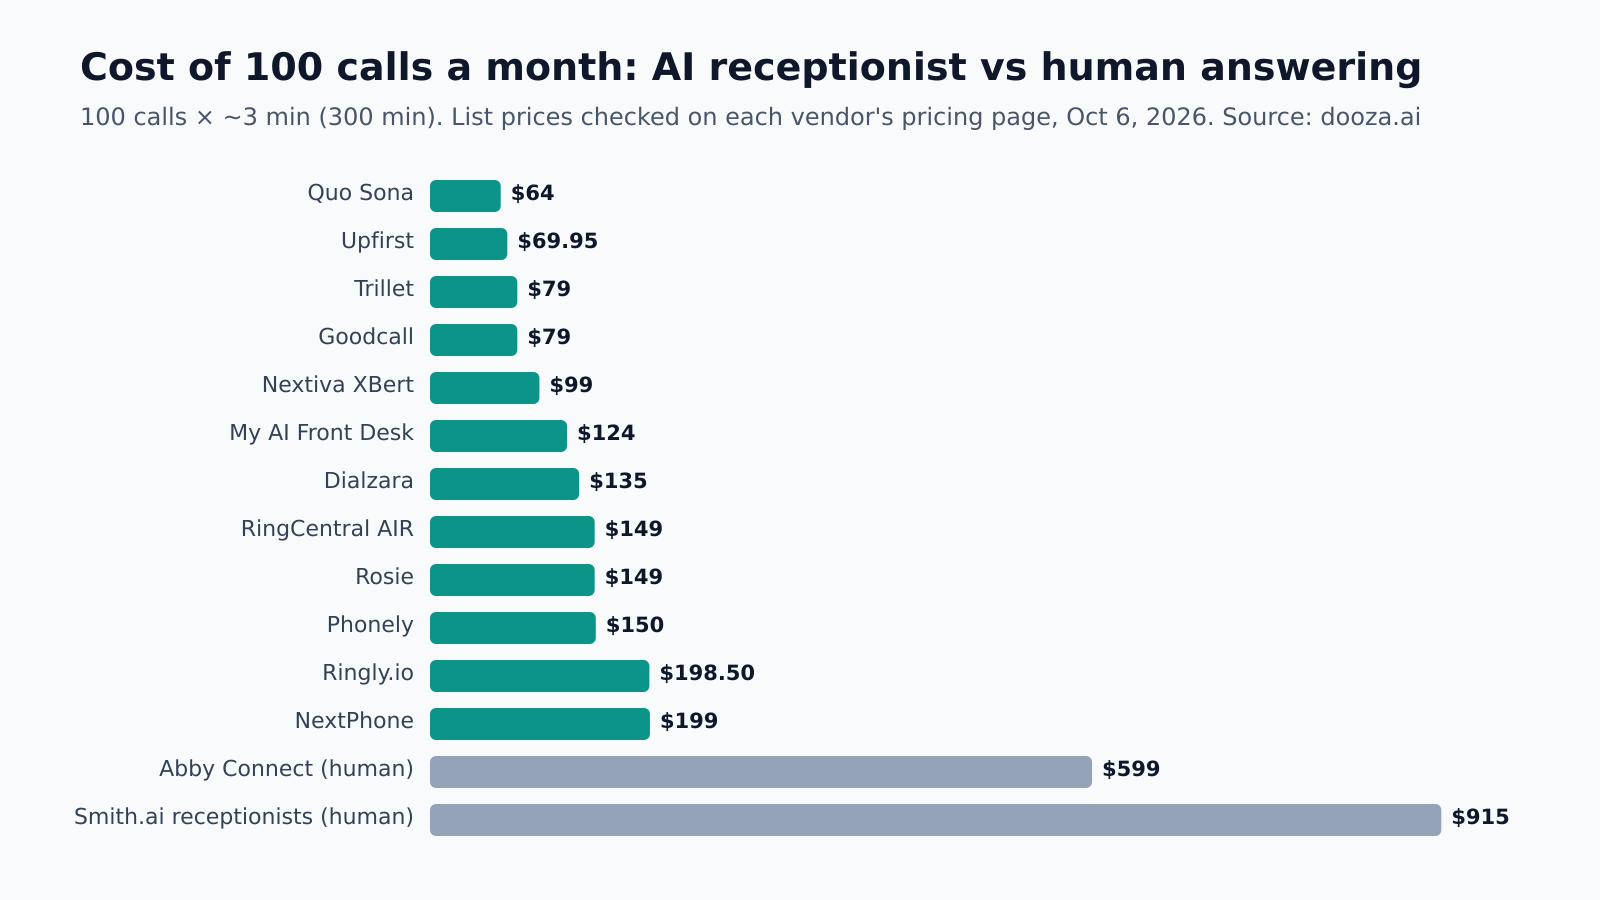
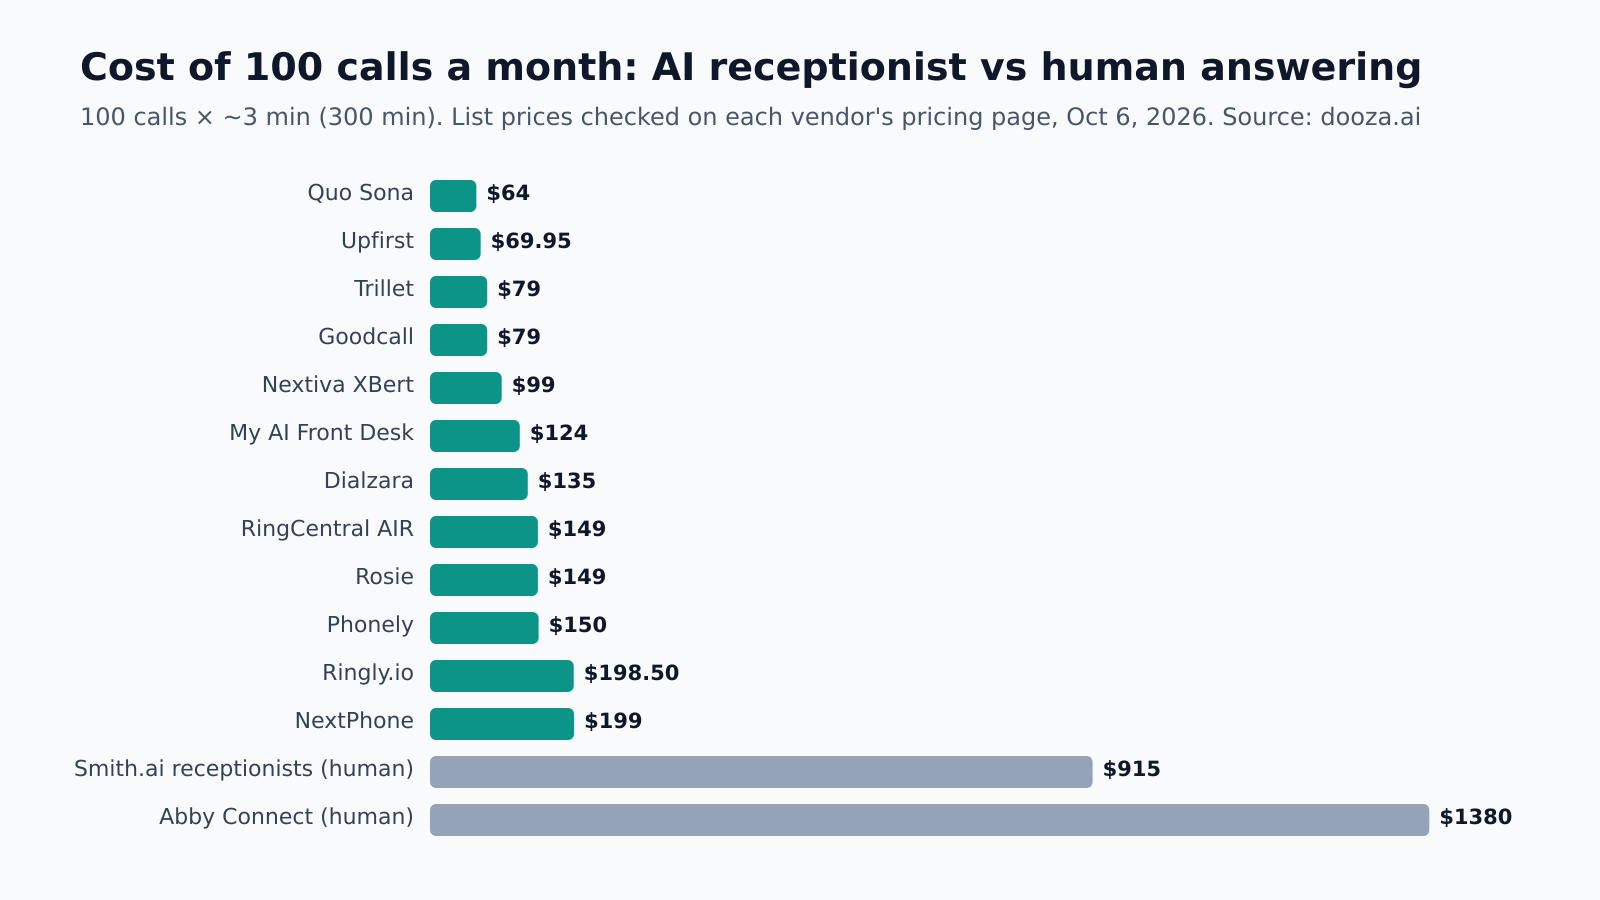
Fix AI receptionist pricing post: Abby human answering for 300 min is $1,380 (Growth), not $599 (that was the AI-minute rate); Quo seat price basis stated

diff --git a/lib/octoberPosts/ai-receptionist-pricing.js b/lib/octoberPosts/ai-receptionist-pricing.js
@@ -31,8 +31,8 @@ const U = {
 
 const faq = [
     { question: 'How much does an AI receptionist cost per month?', answer: 'In October 2026, entry plans from 16 AI receptionist vendors ranged from $0 (free tiers with 10 to 100 calls or minutes) to $199 a month, and most sat between $49 and $99. Overage runs $0.20 to $0.50 a minute or $0.45 to $3.00 a call. Prices were checked on each vendor’s pricing page on October 6, 2026.' },
-    { question: 'How much does an AI receptionist cost for 100 calls a month?', answer: 'For 100 calls of about 3 minutes each (300 minutes), list prices ranged from about $64 (Quo Sona plus a Quo seat) to $199 (NextPhone) across 12 AI services we could price exactly. Human answering services cost $599 to $915 for the same volume (Abby Connect, Smith.ai Virtual Receptionists).' },
-    { question: 'Is an AI receptionist cheaper than a human answering service?', answer: 'Yes. For 100 calls a month, the AI services we priced cost $64 to $199 against $599 to $915 for human answering services, 3 to 14 times less. On Smith.ai’s own price sheet, human receptionists cost $8.50 to $11.50 per extra call and its AI receptionist $2.00 to $3.00 per call (checked October 6, 2026). Human services still win for complex, emotional or high-stakes calls.' },
+    { question: 'How much does an AI receptionist cost for 100 calls a month?', answer: 'For 100 calls of about 3 minutes each (300 minutes), list prices ranged from about $64 (Quo Sona plus a Quo seat) to $199 (NextPhone) across 12 AI services we could price exactly. Human answering services cost $915 to $1,380 for the same volume (Smith.ai Virtual Receptionists, Abby Connect).' },
+    { question: 'Is an AI receptionist cheaper than a human answering service?', answer: 'Yes. For 100 calls a month, the AI services we priced cost $64 to $199 against $915 to $1,380 for human answering services, about 5 to 20 times less. On Smith.ai’s own price sheet, human receptionists cost $8.50 to $11.50 per extra call and its AI receptionist $2.00 to $3.00 per call (checked October 6, 2026). Human services still win for complex, emotional or high-stakes calls.' },
     { question: 'How are AI receptionists billed?', answer: 'Five ways: per minute in bundles (most common: Dialzara, Rosie, Trillet, RingCentral AIR, My AI Front Desk, Phonely), per call or conversation (Upfirst, Smith.ai, Quo, Ringly, Nextiva XBert), flat unlimited (NextPhone), per unique caller (Goodcall), or as a per-seat add-on to a phone system (Allô, Quo, RingCentral RingEX).' },
     { question: 'What hidden costs should I check before buying an AI receptionist?', answer: 'Check what happens when you go over: some vendors charge per extra minute, Rosie moves you to the next plan automatically, and Goodcall meters unique callers instead of minutes. Also check whether the product needs a paid phone seat (Allô, Quo, the RingCentral add-on), billing increments (RingCentral rounds to 30 seconds), and refund terms (Rosie says payments are nonrefundable).' },
     { question: 'Does Dooza offer an AI receptionist?', answer: 'Yes. Dooza builds and runs a done-for-you AI receptionist on your existing number, tuned to your services, prices and calendar, so you don’t set it up yourself. Pricing is on dooza.ai/pricing, and every Dooza product starts with a refundable pilot: 100% refund within 14 days.' },
@@ -43,7 +43,7 @@ export default {
     title: 'AI Receptionist Pricing (2026): What 21 Services Actually Cost, Checked on Their Own Pricing Pages',
     seoTitle: 'AI Receptionist Pricing 2026: 21 Services Compared',
     seoDescription: 'AI receptionist pricing checked on 21 vendors’ own pages (Oct 6, 2026): entry plans $0–$199/mo, most $49–$99. What 100 calls a month really costs, billing models and hidden fees.',
-    excerpt: 'We checked the pricing pages of 21 AI receptionist and answering services on October 6, 2026. Entry plans run $0 to $199 a month; 100 calls a month costs about $64 to $199 with AI, versus $599 to $915 with a human answering service.',
+    excerpt: 'We checked the pricing pages of 21 AI receptionist and answering services on October 6, 2026. Entry plans run $0 to $199 a month; 100 calls a month costs about $64 to $199 with AI, versus $915 to $1,380 with a human answering service.',
     author: 'Dooza Team',
     date: '2026-10-06',
     modifiedDate: '2026-10-06',
@@ -52,7 +52,7 @@ export default {
     category: 'Comparison',
     tags: ['AI Receptionist Pricing', 'AI Receptionist Cost', 'AI Answering Service Pricing', 'Virtual Receptionist Cost', 'AI Receptionist'],
     image: '/blog/ai-receptionist-pricing.png',
-    imageAlt: 'Bar chart: monthly cost of 100 calls (about 300 minutes) on 12 AI receptionist services, from about $64 to $199, compared with $599 to $915 for human answering services. Prices checked October 6, 2026.',
+    imageAlt: 'Bar chart: monthly cost of 100 calls (about 300 minutes) on 12 AI receptionist services, from about $64 to $199, compared with $915 to $1,380 for human answering services. Prices checked October 6, 2026.',
     slug: 'ai-receptionist-pricing',
     tocData: [
         { id: 'short-answer', label: 'Short answer' },
@@ -69,7 +69,7 @@ export default {
     content: `<p><em>Updated October 6, 2026. Every price below was ${CHECKED} on the vendor’s own pricing page, linked in each row. Dooza sells a done-for-you AI receptionist, so we are not neutral; we list our method and every source so you can check us. Prices change often: confirm on the vendor’s page before you buy.</em></p>
 
 <h2 id="short-answer">How much does an AI receptionist cost?</h2>
-<p><strong>A self-serve AI receptionist costs $0 to $199 a month for an entry plan, and most small-business plans cost $49 to $99 a month (16 AI services, prices checked October 6, 2026).</strong> Extra usage runs $0.20 to $0.50 a minute or $0.45 to $3.00 a call. For a typical small business taking 100 calls a month, the AI services we could price exactly cost about $64 to $199 a month. A human answering service costs $599 to $915 for the same calls.</p>
+<p><strong>A self-serve AI receptionist costs $0 to $199 a month for an entry plan, and most small-business plans cost $49 to $99 a month (16 AI services, prices checked October 6, 2026).</strong> Extra usage runs $0.20 to $0.50 a minute or $0.45 to $3.00 a call. For a typical small business taking 100 calls a month, the AI services we could price exactly cost about $64 to $199 a month. A human answering service costs $915 to $1,380 for the same calls.</p>
 <p>The sticker price matters less than the billing unit. Per-minute, per-call, per-caller and flat plans can swing the bill by 3x at the same call volume. The table and the 100-call comparison below show where.</p>
 
 <h2 id="entry-prices">AI receptionist entry prices: 16 services compared</h2>
@@ -101,7 +101,7 @@ export default {
 <table>
 <thead><tr><th>Service</th><th>Cost for 100 calls (300 min)</th><th>How it adds up</th></tr></thead>
 <tbody>
-<tr><td>Quo Sona</td><td>about $64</td><td>Tier 3 $49 (100 calls) + $15 Quo seat</td></tr>
+<tr><td>Quo Sona</td><td>about $64</td><td>Tier 3 $49 (100 calls) + Quo seat from $15 (billed yearly; $19 monthly)</td></tr>
 <tr><td>Upfirst</td><td>$69.95</td><td>Premium $59.95 (90 calls) + 10 × $1</td></tr>
 <tr><td>Trillet</td><td>$79</td><td>$49 (150 min) + 150 × $0.20</td></tr>
 <tr><td>Goodcall</td><td>$79</td><td>Starter: unlimited minutes, 100 unique callers</td></tr>
@@ -114,8 +114,8 @@ export default {
 <tr><td>Ringly.io</td><td>$198.50</td><td>$99 (50 conversations) + 50 × $1.99</td></tr>
 <tr><td>NextPhone</td><td>$199</td><td>Flat, unlimited calls</td></tr>
 <tr><td colspan="3"><em>Human answering services, same 100 calls</em></td></tr>
-<tr><td>Abby Connect</td><td>$599</td><td>Professional: 200 Abby Minutes (AI minutes count half)</td></tr>
 <tr><td>Smith.ai Virtual Receptionists</td><td>$915</td><td>Basic $810 (90 calls) + 10 × $10.50</td></tr>
+<tr><td>Abby Connect (human answering)</td><td>$1,380</td><td>300 human minutes is over Professional’s 200, so Growth (500 minutes). Abby counts AI minutes at half, so 300 AI minutes would fit Professional at $599.</td></tr>
 </tbody>
 </table>
 <p>At 100 calls a month the cheapest and the most expensive AI service differ by about 3x ($64 against $199). Smith.ai’s AI Receptionist isn’t in the list because its 100-call price isn’t shown: Pro covers 75 calls for $150, and larger volume options are listed only as discounts. Allô is left out because its add-on has no usage cap and needs a phone seat.</p>
@@ -140,7 +140,7 @@ export default {
 </ul>
 
 <h2 id="human-vs-ai">AI receptionist vs human answering service</h2>
-<p>Smith.ai sells both, which makes for a clean comparison on one price sheet: its human receptionists charge $8.50 to $11.50 for each call over the plan, while its AI receptionist works out at $2.00 to $3.00 a call (${src(U.smithHuman, 'Smith.ai human plans')}, ${src(U.smithAi, 'Smith.ai AI plans')}, ${CHECKED}). In our 100-call scenario, AI services cost 3 to 14 times less than the two human services ($64–$199 against $599–$915).</p>
+<p>Smith.ai sells both, which makes for a clean comparison on one price sheet: its human receptionists charge $8.50 to $11.50 for each call over the plan, while its AI receptionist works out at $2.00 to $3.00 a call (${src(U.smithHuman, 'Smith.ai human plans')}, ${src(U.smithAi, 'Smith.ai AI plans')}, ${CHECKED}). In our 100-call scenario, AI services cost about 5 to 20 times less than the two human services ($64–$199 against $915–$1,380).</p>
 <p>Humans are still the better pick for upset customers, complex intake (legal, medical), and calls where one mistake costs more than a year of the service. Hybrids exist: ${src(U.abby, 'Abby Connect')} mixes human and AI minutes on one plan, and ${src(U.ruby, 'Ruby')} adds AI features to its human plans from $250 a month.</p>
 
 <h2 id="which-fits">Which AI receptionist fits which business</h2>
